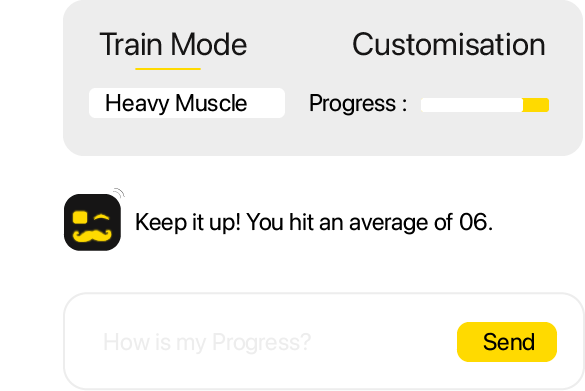
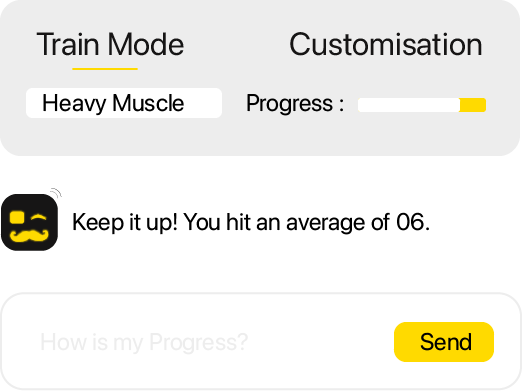
Demo version Made

diff --git a/src/components/navbar.js b/src/components/navbar.js
@@ -1,13 +1,16 @@
 import "../styles/navbar.css";
 
 // Edit these arrays to change the navbar on every page.
-// Role-based links (coach, admin) can be added later by filtering this list.
 export const NAV_LINKS = [
-  { label: "Home", href: "/" },
-  { label: "How it works", href: "/#how" },
-  { label: "Form checks", href: "/#checks" },
+  { label: "Pricing", href: "/pricing.html" },
+  { label: "Resources", href: "/resources.html" },
+  { label: "About us", href: "/about.html" },
+  { label: "Log in", href: "/login.html" },
 ];
-export const NAV_CTA = { label: "Start session", href: "/session.html" };
+export const NAV_CTA = { label: "Get Started", href: "/signup.html" };
+
+// Logo file: public/images/lusion-logo.png
+const LOGO_SRC = "/images/lusion-logo.png";
 
 function isCurrent(href) {
   if (href.includes("#")) return false; // anchors are never the "current page"
@@ -23,6 +26,8 @@ function makeLink({ label, href }, className) {
   a.textContent = label;
   if (className) a.className = className;
   if (isCurrent(href)) a.setAttribute("aria-current", "page");
+  // "#" links are placeholders for pages that do not exist yet: do not jump to the top
+  if (href === "#") a.addEventListener("click", (e) => e.preventDefault());
   li.append(a);
   return li;
 }
@@ -42,7 +47,24 @@ export function mountNavbar() {
   const brand = document.createElement("a");
   brand.className = "nav-brand";
   brand.href = "/";
-  brand.innerHTML = '<span class="nav-brand-mark" aria-hidden="true"></span>Lusion';
+  brand.setAttribute("aria-label", "Lusion AI home");
+  const logo = document.createElement("img");
+  logo.className = "nav-logo";
+  logo.src = LOGO_SRC;
+  logo.alt = "Lusion AI";
+  logo.decoding = "async";
+  // If the logo file is missing, show a text wordmark instead of a broken image
+  logo.addEventListener(
+    "error",
+    () => {
+      const word = document.createElement("span");
+      word.className = "nav-wordmark";
+      word.textContent = "Lusion AI";
+      logo.replaceWith(word);
+    },
+    { once: true }
+  );
+  brand.append(logo);
 
   const toggle = document.createElement("button");
   toggle.className = "nav-toggle";
@@ -57,14 +79,21 @@ export function mountNavbar() {
   NAV_LINKS.forEach((l) => list.append(makeLink(l)));
   list.append(makeLink(NAV_CTA, "nav-cta"));
 
+  const closeMenu = () => {
+    header.classList.remove("open");
+    toggle.setAttribute("aria-expanded", "false");
+  };
   toggle.addEventListener("click", () => {
     const open = header.classList.toggle("open");
     toggle.setAttribute("aria-expanded", String(open));
   });
   list.addEventListener("click", (e) => {
-    if (e.target.closest("a")) {
-      header.classList.remove("open");
-      toggle.setAttribute("aria-expanded", "false");
+    if (e.target.closest("a")) closeMenu();
+  });
+  document.addEventListener("keydown", (e) => {
+    if (e.key === "Escape" && header.classList.contains("open")) {
+      closeMenu();
+      toggle.focus();
     }
   });
 

diff --git a/src/styles/pages.css b/src/styles/pages.css
@@ -1,0 +1,35 @@
+.page { max-width: var(--page-width); margin: 0 auto; padding: var(--space-5) var(--space-4) var(--space-6); }
+.page h1 { font-family: var(--font-display); font-size: clamp(2rem, 4.5vw, 3rem); font-weight: 800; letter-spacing: -0.02em; line-height: 1.1; margin: 0 0 var(--space-3); }
+.page h2 { font-size: 1.4rem; margin: var(--space-5) 0 var(--space-3); }
+.lede { color: var(--color-muted); font-size: 1.15rem; max-width: 56ch; margin: 0 0 var(--space-4); }
+.note { color: var(--color-muted); font-size: 0.95rem; margin: var(--space-4) 0 0; }
+.grid2, .grid3 { display: grid; gap: var(--space-4); margin: var(--space-4) 0; }
+.grid2 { grid-template-columns: repeat(2, 1fr); }
+.grid3 { grid-template-columns: repeat(3, 1fr); }
+.card { background: var(--color-nav-pill); border-radius: var(--radius-m); padding: var(--space-4); }
+.card h3 { margin: 0 0 var(--space-2); font-size: 1.15rem; }
+.card p { margin: 0; color: var(--color-muted); }
+.card ul { padding-left: 1.1em; color: var(--color-muted); }
+.price { font-weight: 600; color: var(--color-ink) !important; margin-bottom: var(--space-2) !important; }
+.btn { display: inline-block; padding: 12px 22px; border: 0; border-radius: var(--radius-s); font: inherit; font-weight: 600; text-decoration: none; cursor: pointer; }
+.btn-primary { background: var(--color-accent); color: var(--color-accent-ink); }
+.btn-primary:hover { filter: brightness(0.96); }
+.btn-quiet { background: #fff; border: 1px solid var(--color-line); padding: 6px 14px; color: var(--color-ink); }
+.actions { margin: var(--space-4) 0; }
+.table-wrap { overflow-x: auto; }
+table { width: 100%; border-collapse: collapse; min-width: 520px; }
+th, td { text-align: left; padding: 12px 16px 12px 0; border-bottom: 1px solid var(--color-line); vertical-align: middle; }
+th { color: var(--color-muted); font-weight: 600; font-size: 0.95rem; }
+.list { color: var(--color-muted); padding-left: 1.2em; }
+.auth { max-width: 420px; margin: 0 auto; }
+.auth form { display: grid; gap: var(--space-2); }
+label { font-weight: 600; margin-top: var(--space-2); }
+input, select { font: inherit; padding: 12px 14px; border: 1px solid var(--color-line); border-radius: var(--radius-s); background: #fff; color: var(--color-ink); }
+input:focus-visible, select:focus-visible { outline: 2px solid var(--color-accent); outline-offset: 1px; }
+.auth .btn { margin-top: var(--space-3); }
+.error { color: #b3261e; min-height: 1.4em; margin: var(--space-2) 0 0; }
+.chat { display: flex; gap: var(--space-2); max-width: 560px; }
+.chat input { flex: 1; }
+.sr { position: absolute; width: 1px; height: 1px; overflow: hidden; clip: rect(0 0 0 0); }
+.foot { max-width: var(--page-width); margin: 0 auto; padding: var(--space-4); color: var(--color-muted); font-size: 0.9rem; border-top: 1px solid var(--color-line); }
+@media (max-width: 820px) { .grid2, .grid3 { grid-template-columns: 1fr; } }

diff --git a/lifter.html b/lifter.html
@@ -1,0 +1,9 @@
+<!doctype html>
+<html lang="en"><head><meta charset="UTF-8" /><meta name="viewport" content="width=device-width, initial-scale=1.0" />
+<title>Lifter dashboard | Lusion AI</title><link rel="icon" type="image/svg+xml" href="/favicon.svg" />
+<link rel="preconnect" href="https://fonts.googleapis.com" /><link rel="preconnect" href="https://fonts.gstatic.com" crossorigin />
+<link href="https://fonts.googleapis.com/css2?family=Inter:wght@400;600;800&display=swap" rel="stylesheet" />
+<link rel="stylesheet" href="/src/styles/base.css" /><link rel="stylesheet" href="/src/styles/pages.css" /></head>
+<body><header id="navbar"></header><main class="page">
+<h1>Your training</h1><div class="grid3"><article class="card"><h3>Last session score</h3><p>82 / 100</p></article><article class="card"><h3>Reps this week</h3><p>24</p></article><article class="card"><h3>Top cue</h3><p>Sit deeper in the catch.</p></article></div><div class="actions"><a class="btn btn-primary" href="/session.html">Start a session</a></div><h2>Recent reps</h2><div class="table-wrap"><table><thead><tr><th scope="col">Date</th><th scope="col">Rep</th><th scope="col">Score</th><th scope="col">Cues</th></tr></thead><tbody><tr><td>Mon</td><td>1</td><td>78</td><td>Chest higher at the start.</td></tr><tr><td>Mon</td><td>2</td><td>84</td><td>Lock your elbows overhead.</td></tr><tr><td>Wed</td><td>1</td><td>86</td><td>Sit deeper in the catch.</td></tr></tbody></table></div><h2>Ask Lusion AI</h2><form class="chat" onsubmit="return false"><label class="sr" for="q">Question</label><input id="q" placeholder="How is my progress?" /><button class="btn btn-primary">Send</button></form><p class="note">Sample data for layout review. It will be replaced by real session data.</p></main><footer class="foot">Lusion AI is an early MVP. Feedback is guidance, not a replacement for a qualified coach.</footer>
+<script type="module" src="/src/nav-init.js"></script></body></html>

diff --git a/signup.html b/signup.html
@@ -1,0 +1,13 @@
+<!doctype html>
+<html lang="en"><head><meta charset="UTF-8" /><meta name="viewport" content="width=device-width, initial-scale=1.0" />
+<title>Get started | Lusion AI</title><link rel="icon" type="image/svg+xml" href="/favicon.svg" />
+<link rel="preconnect" href="https://fonts.googleapis.com" /><link rel="preconnect" href="https://fonts.gstatic.com" crossorigin />
+<link href="https://fonts.googleapis.com/css2?family=Inter:wght@400;600;800&display=swap" rel="stylesheet" />
+<link rel="stylesheet" href="/src/styles/base.css" /><link rel="stylesheet" href="/src/styles/pages.css" /></head>
+<body><header id="navbar"></header><main class="page">
+<section class="auth"><h1>Create your account</h1><p class="lede">Join as a lifter or as a coach.</p>
+<form id="auth-form" data-next="signup" novalidate><label for="name">Full name</label><input id="name" name="name" type="text" required autocomplete="name" /><label for="email">Email</label><input id="email" name="email" type="email" required autocomplete="email" /><label for="password">Password (8+ characters)</label><input id="password" name="password" type="password" required autocomplete="new-password" minlength="8" /><label for="role">I am a</label><select id="role" name="role"><option value="lifter">Lifter</option><option value="coach">Coach</option></select>
+<label for="referral">Referral code (optional)</label><input id="referral" name="referral" type="text" autocomplete="off" />
+<p id="form-error" class="error" role="alert"></p><button class="btn btn-primary" type="submit">Create account</button></form>
+<p class="note">Already registered? <a href="/login.html">Log in</a>. Demo build: no server yet.</p></section></main><footer class="foot">Lusion AI is an early MVP. Feedback is guidance, not a replacement for a qualified coach.</footer>
+<script type="module" src="/src/nav-init.js"></script><script type="module" src="/src/auth.js"></script></body></html>

diff --git a/resources.html b/resources.html
@@ -1,0 +1,9 @@
+<!doctype html>
+<html lang="en"><head><meta charset="UTF-8" /><meta name="viewport" content="width=device-width, initial-scale=1.0" />
+<title>Resources | Lusion AI</title><link rel="icon" type="image/svg+xml" href="/favicon.svg" />
+<link rel="preconnect" href="https://fonts.googleapis.com" /><link rel="preconnect" href="https://fonts.gstatic.com" crossorigin />
+<link href="https://fonts.googleapis.com/css2?family=Inter:wght@400;600;800&display=swap" rel="stylesheet" />
+<link rel="stylesheet" href="/src/styles/base.css" /><link rel="stylesheet" href="/src/styles/pages.css" /></head>
+<body><header id="navbar"></header><main class="page">
+<h1>Resources</h1><p class="lede">What Lusion checks on every snatch, and how to fix it.</p><div class="table-wrap"><table><thead><tr><th scope="col">Check</th><th scope="col">What it looks at</th><th scope="col">Cue you might see</th></tr></thead><tbody><tr><td>Setup position</td><td>Back angle at the start</td><td>Chest higher at the start.</td></tr><tr><td>Extension</td><td>Hip and knee angle at the top of the pull</td><td>Finish the extension before pulling under.</td></tr><tr><td>Bar close to body</td><td>Wrist drift from the ankles, in torso lengths</td><td>Keep the bar close to your body.</td></tr><tr><td>Catch depth</td><td>Hip height relative to the knee</td><td>Sit deeper in the catch.</td></tr><tr><td>Lockout</td><td>Elbow angle overhead</td><td>Lock your elbows overhead.</td></tr></tbody></table></div><h2>Filming tips</h2><ul class="list"><li>Stand sideways to the camera with your whole body in frame.</li><li>Stay about 2 to 3 m away.</li><li>Use even light and wear fitted clothing.</li></ul><a class="btn btn-primary" href="/session.html">Open the camera tool</a></main><footer class="foot">Lusion AI is an early MVP. Feedback is guidance, not a replacement for a qualified coach.</footer>
+<script type="module" src="/src/nav-init.js"></script></body></html>

diff --git a/admin.html b/admin.html
@@ -1,0 +1,9 @@
+<!doctype html>
+<html lang="en"><head><meta charset="UTF-8" /><meta name="viewport" content="width=device-width, initial-scale=1.0" />
+<title>Admin panel | Lusion AI</title><link rel="icon" type="image/svg+xml" href="/favicon.svg" />
+<link rel="preconnect" href="https://fonts.googleapis.com" /><link rel="preconnect" href="https://fonts.gstatic.com" crossorigin />
+<link href="https://fonts.googleapis.com/css2?family=Inter:wght@400;600;800&display=swap" rel="stylesheet" />
+<link rel="stylesheet" href="/src/styles/base.css" /><link rel="stylesheet" href="/src/styles/pages.css" /></head>
+<body><header id="navbar"></header><main class="page">
+<h1>Admin panel</h1><div class="grid3"><article class="card"><h3>Users</h3><p>24</p></article><article class="card"><h3>Coaches</h3><p>3</p></article><article class="card"><h3>Active referral codes</h3><p>3</p></article></div><h2>Users</h2><div class="table-wrap"><table><thead><tr><th scope="col">Name</th><th scope="col">Role</th><th scope="col">Status</th><th scope="col">Joined</th></tr></thead><tbody><tr><td>User A</td><td>Lifter</td><td>Active</td><td>Oct 20</td></tr><tr><td>User B</td><td>Coach</td><td>Active</td><td>Oct 12</td></tr><tr><td>User C</td><td>Lifter</td><td>Invited</td><td>Nov 1</td></tr></tbody></table></div><h2>Referral codes</h2><div class="table-wrap"><table><thead><tr><th scope="col">Code</th><th scope="col">Owner</th><th scope="col">Uses</th><th scope="col">Action</th></tr></thead><tbody><tr><td>LUSION-COACH</td><td>User B</td><td>2</td><td><button class="btn btn-quiet">Revoke</button></td></tr></tbody></table></div><p class="note">Sample data for layout review. It will be replaced by real session data.</p></main><footer class="foot">Lusion AI is an early MVP. Feedback is guidance, not a replacement for a qualified coach.</footer>
+<script type="module" src="/src/nav-init.js"></script></body></html>

diff --git a/coach.html b/coach.html
@@ -1,0 +1,9 @@
+<!doctype html>
+<html lang="en"><head><meta charset="UTF-8" /><meta name="viewport" content="width=device-width, initial-scale=1.0" />
+<title>Coach dashboard | Lusion AI</title><link rel="icon" type="image/svg+xml" href="/favicon.svg" />
+<link rel="preconnect" href="https://fonts.googleapis.com" /><link rel="preconnect" href="https://fonts.gstatic.com" crossorigin />
+<link href="https://fonts.googleapis.com/css2?family=Inter:wght@400;600;800&display=swap" rel="stylesheet" />
+<link rel="stylesheet" href="/src/styles/base.css" /><link rel="stylesheet" href="/src/styles/pages.css" /></head>
+<body><header id="navbar"></header><main class="page">
+<h1>Your lifters</h1><div class="grid3"><article class="card"><h3>Lifters</h3><p>3</p></article><article class="card"><h3>Sessions this week</h3><p>11</p></article><article class="card"><h3>Referral code</h3><p>LUSION-COACH</p></article></div><h2>Lifters</h2><div class="table-wrap"><table><thead><tr><th scope="col">Lifter</th><th scope="col">Last session</th><th scope="col">Avg score</th><th scope="col">Focus cue</th><th scope="col">Guide</th></tr></thead><tbody><tr><td>Lifter A</td><td>Mon</td><td>82</td><td>Sit deeper in the catch.</td><td><button class="btn btn-quiet">Assign</button></td></tr><tr><td>Lifter B</td><td>Tue</td><td>74</td><td>Keep the bar close to your body.</td><td><button class="btn btn-quiet">Assign</button></td></tr><tr><td>Lifter C</td><td>Wed</td><td>90</td><td>Lock your elbows overhead.</td><td><button class="btn btn-quiet">Assign</button></td></tr></tbody></table></div><p class="note">Sample data for layout review. It will be replaced by real session data.</p></main><footer class="foot">Lusion AI is an early MVP. Feedback is guidance, not a replacement for a qualified coach.</footer>
+<script type="module" src="/src/nav-init.js"></script></body></html>

diff --git a/login.html b/login.html
@@ -1,0 +1,12 @@
+<!doctype html>
+<html lang="en"><head><meta charset="UTF-8" /><meta name="viewport" content="width=device-width, initial-scale=1.0" />
+<title>Log in | Lusion AI</title><link rel="icon" type="image/svg+xml" href="/favicon.svg" />
+<link rel="preconnect" href="https://fonts.googleapis.com" /><link rel="preconnect" href="https://fonts.gstatic.com" crossorigin />
+<link href="https://fonts.googleapis.com/css2?family=Inter:wght@400;600;800&display=swap" rel="stylesheet" />
+<link rel="stylesheet" href="/src/styles/base.css" /><link rel="stylesheet" href="/src/styles/pages.css" /></head>
+<body><header id="navbar"></header><main class="page">
+<section class="auth"><h1>Log in</h1><p class="lede">Welcome back.</p>
+<form id="auth-form" data-next="login" novalidate><label for="email">Email</label><input id="email" name="email" type="email" required autocomplete="email" /><label for="password">Password</label><input id="password" name="password" type="password" required autocomplete="current-password" minlength="8" /><label for="role">Continue as</label><select id="role" name="role"><option value="lifter">Lifter</option><option value="coach">Coach</option><option value="admin">Web admin</option></select>
+<p id="form-error" class="error" role="alert"></p><button class="btn btn-primary" type="submit">Log in</button></form>
+<p class="note">No account? <a href="/signup.html">Create one</a>. Demo build: no server yet, so any valid details continue to the dashboard.</p></section></main><footer class="foot">Lusion AI is an early MVP. Feedback is guidance, not a replacement for a qualified coach.</footer>
+<script type="module" src="/src/nav-init.js"></script><script type="module" src="/src/auth.js"></script></body></html>

diff --git a/pricing.html b/pricing.html
@@ -1,0 +1,13 @@
+<!doctype html>
+<html lang="en"><head><meta charset="UTF-8" /><meta name="viewport" content="width=device-width, initial-scale=1.0" />
+<title>Pricing | Lusion AI</title><link rel="icon" type="image/svg+xml" href="/favicon.svg" />
+<link rel="preconnect" href="https://fonts.googleapis.com" /><link rel="preconnect" href="https://fonts.gstatic.com" crossorigin />
+<link href="https://fonts.googleapis.com/css2?family=Inter:wght@400;600;800&display=swap" rel="stylesheet" />
+<link rel="stylesheet" href="/src/styles/base.css" /><link rel="stylesheet" href="/src/styles/pages.css" /></head>
+<body><header id="navbar"></header><main class="page">
+<h1>Pricing</h1><p class="lede">Plans for lifters and for coaches. Final prices are set before launch.</p>
+<div class="grid2">
+<article class="card"><h3>Lifter</h3><p class="price">Price to be confirmed</p><ul><li>Live form feedback in your browser</li><li>Post-session reports</li><li>Chat with Lusion AI</li><li>Guides assigned by your coach</li></ul><a class="btn btn-primary" href="/signup.html">Get started</a></article>
+<article class="card"><h3>Coach</h3><p class="price">Price to be confirmed</p><ul><li>Everything in Lifter</li><li>Dashboard for all your lifters</li><li>Assign guides and review reports</li><li>Referral code to bring lifters in</li></ul><a class="btn btn-primary" href="/signup.html">Get started</a></article>
+</div></main><footer class="foot">Lusion AI is an early MVP. Feedback is guidance, not a replacement for a qualified coach.</footer>
+<script type="module" src="/src/nav-init.js"></script></body></html>

diff --git a/about.html b/about.html
@@ -1,0 +1,9 @@
+<!doctype html>
+<html lang="en"><head><meta charset="UTF-8" /><meta name="viewport" content="width=device-width, initial-scale=1.0" />
+<title>About us | Lusion AI</title><link rel="icon" type="image/svg+xml" href="/favicon.svg" />
+<link rel="preconnect" href="https://fonts.googleapis.com" /><link rel="preconnect" href="https://fonts.gstatic.com" crossorigin />
+<link href="https://fonts.googleapis.com/css2?family=Inter:wght@400;600;800&display=swap" rel="stylesheet" />
+<link rel="stylesheet" href="/src/styles/base.css" /><link rel="stylesheet" href="/src/styles/pages.css" /></head>
+<body><header id="navbar"></header><main class="page">
+<h1>About Lusion AI</h1><p class="lede">An all in one AI platform for weight lifters and coaches.</p><div class="grid3"><article class="card"><h3>Watch every rep</h3><p>Your webcam and a pose model read each snatch rep as it happens. Video stays in your browser.</p></article><article class="card"><h3>Clear cues</h3><p>After each rep you get a score and up to two short coaching cues you can act on.</p></article><article class="card"><h3>Built for coaches too</h3><p>Coaches follow progress, assign guides and keep lifters on track from one dashboard.</p></article></div><p class="note">Lusion 1.1 supports the snatch only. More lifts are planned.</p></main><footer class="foot">Lusion AI is an early MVP. Feedback is guidance, not a replacement for a qualified coach.</footer>
+<script type="module" src="/src/nav-init.js"></script></body></html>

diff --git a/vite.config.js b/vite.config.js
@@ -1,14 +1,22 @@
 import { defineConfig } from "vite";
 import { fileURLToPath } from "node:url";
 
-// Two pages: the home page (index.html) and the camera tool (session.html).
-// Add new pages here as the front end grows.
+// Every top-level .html file is a page. Add new pages to this list.
 export default defineConfig({
   build: {
     rollupOptions: {
       input: {
-        home: fileURLToPath(new URL("./index.html", import.meta.url)),
+        404: fileURLToPath(new URL("./404.html", import.meta.url)),
+        about: fileURLToPath(new URL("./about.html", import.meta.url)),
+        admin: fileURLToPath(new URL("./admin.html", import.meta.url)),
+        coach: fileURLToPath(new URL("./coach.html", import.meta.url)),
+        index: fileURLToPath(new URL("./index.html", import.meta.url)),
+        lifter: fileURLToPath(new URL("./lifter.html", import.meta.url)),
+        login: fileURLToPath(new URL("./login.html", import.meta.url)),
+        pricing: fileURLToPath(new URL("./pricing.html", import.meta.url)),
+        resources: fileURLToPath(new URL("./resources.html", import.meta.url)),
         session: fileURLToPath(new URL("./session.html", import.meta.url)),
+        signup: fileURLToPath(new URL("./signup.html", import.meta.url)),
       },
     },
   },

diff --git a/404.html b/404.html
@@ -1,0 +1,9 @@
+<!doctype html>
+<html lang="en"><head><meta charset="UTF-8" /><meta name="viewport" content="width=device-width, initial-scale=1.0" />
+<title>Page not found | Lusion AI</title><link rel="icon" type="image/svg+xml" href="/favicon.svg" />
+<link rel="preconnect" href="https://fonts.googleapis.com" /><link rel="preconnect" href="https://fonts.gstatic.com" crossorigin />
+<link href="https://fonts.googleapis.com/css2?family=Inter:wght@400;600;800&display=swap" rel="stylesheet" />
+<link rel="stylesheet" href="/src/styles/base.css" /><link rel="stylesheet" href="/src/styles/pages.css" /></head>
+<body><header id="navbar"></header><main class="page">
+<h1>Page not found</h1><p class="lede">That page does not exist.</p><a class="btn btn-primary" href="/">Back to home</a></main><footer class="foot">Lusion AI is an early MVP. Feedback is guidance, not a replacement for a qualified coach.</footer>
+<script type="module" src="/src/nav-init.js"></script></body></html>
